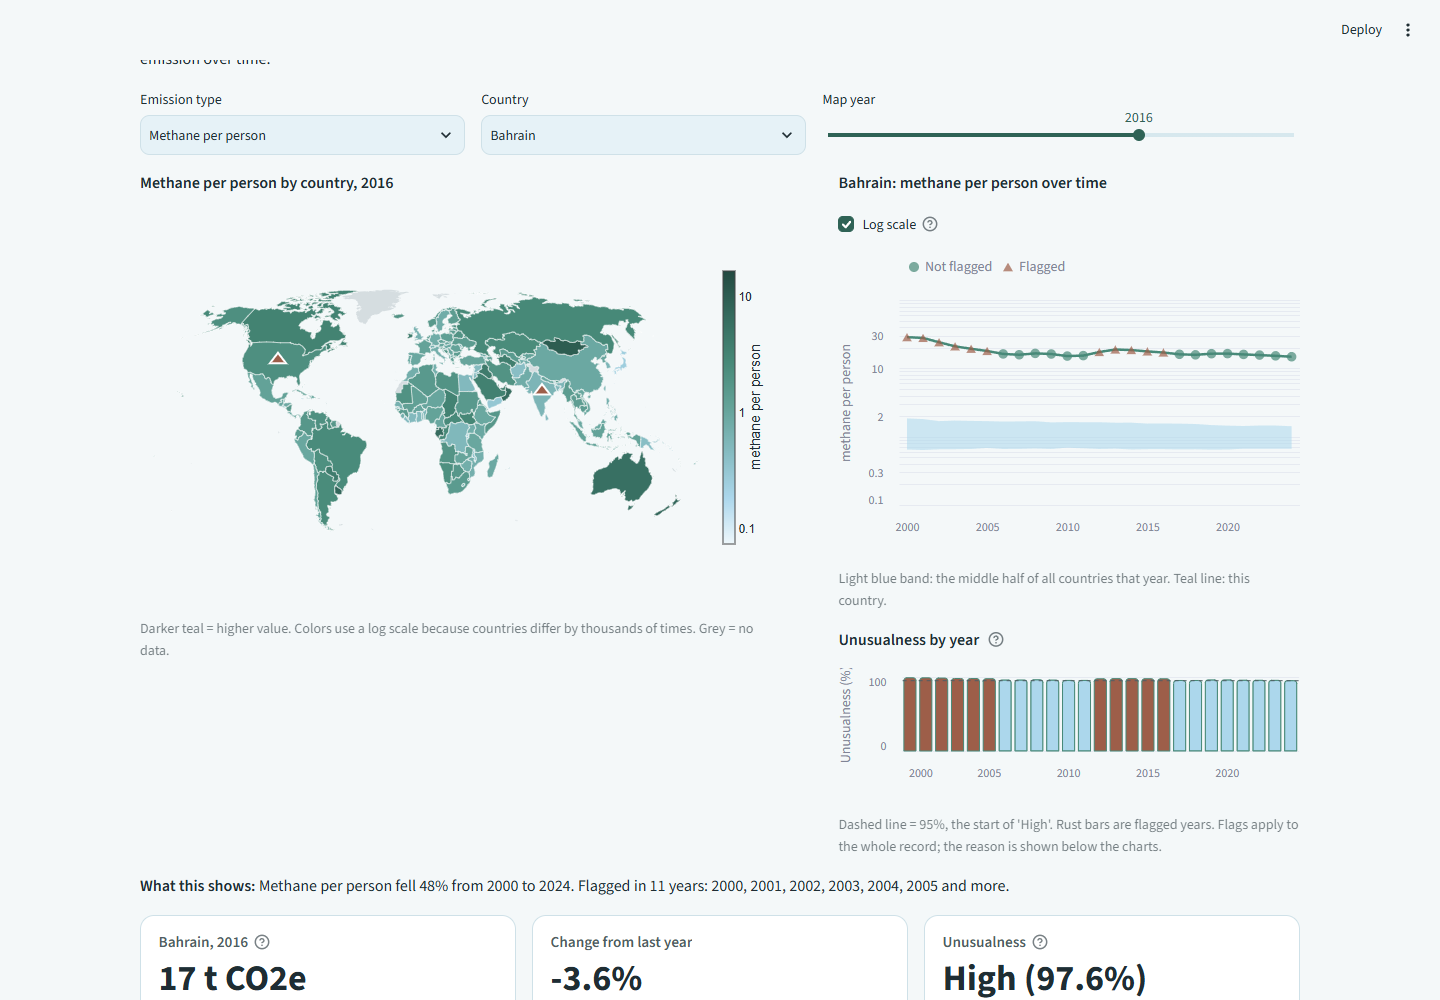
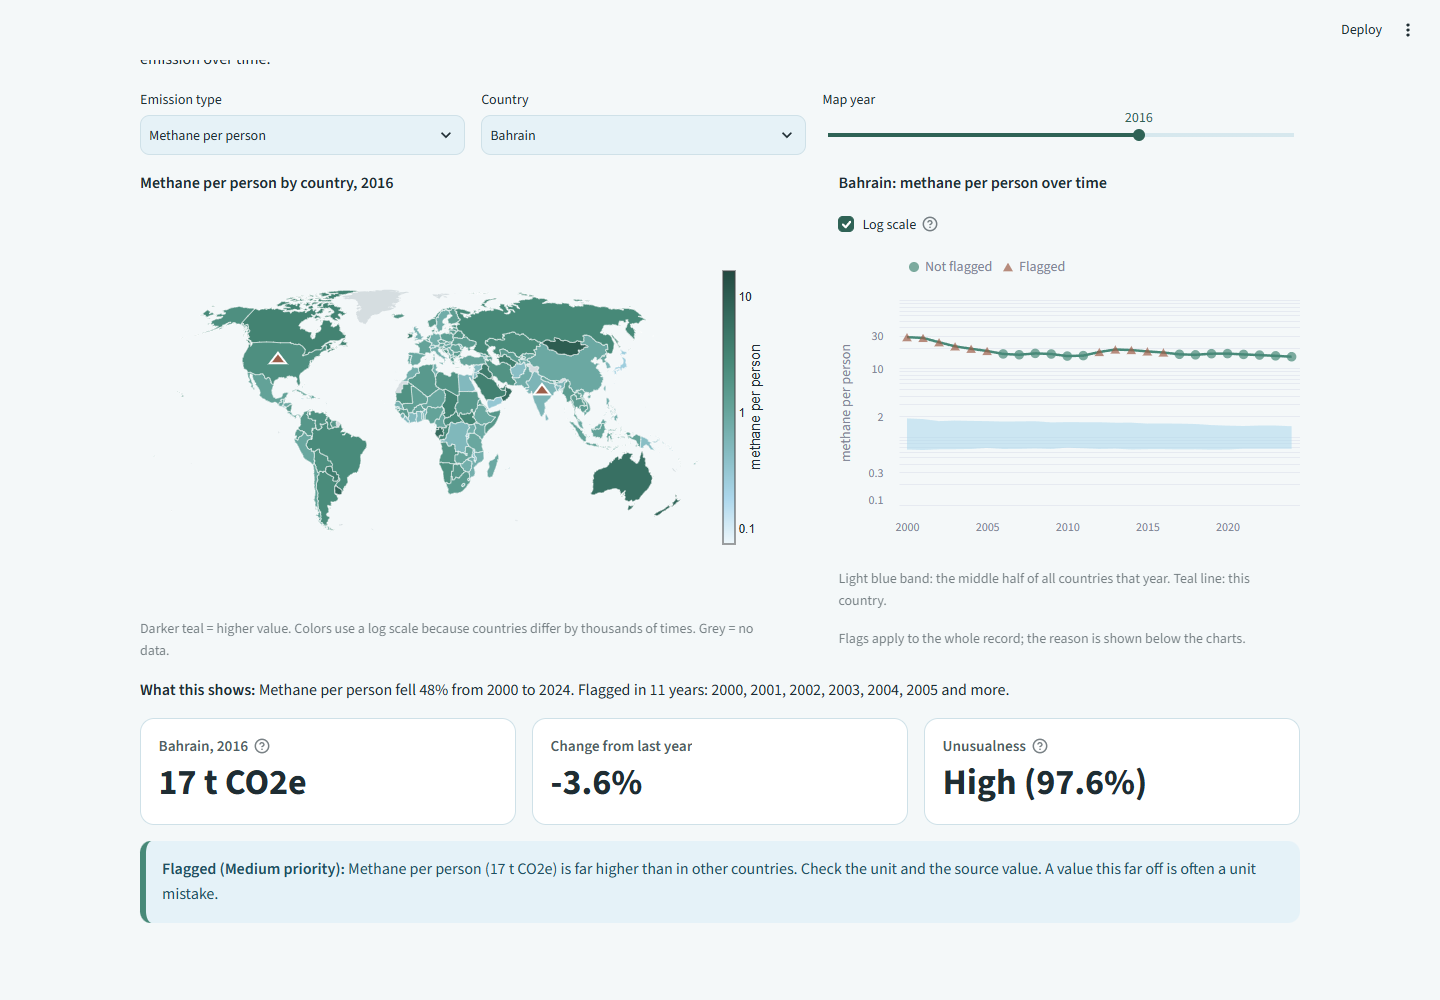
Remove the unusualness-by-year chart from the map tab
The per-record unusualness value stays on the record card.

Changed region(s): [[0.0938, 0.62, 0.9062, 1.0], [0.0938, 0.744, 0.2188, 0.806], [0.375, 0.744, 0.4688, 0.806]]

diff --git a/app.py b/app.py
@@ -556,21 +556,6 @@ def trend_chart(trend, measure, log_scale):
     return (band + line + points).properties(height=300)
 
 
-def unusualness_chart(trend):
-    data = trend.assign(status=np.where(trend['flagged'], 'Flagged', 'Not flagged'),
-                        label=trend['unusualness'].map(unusualness_label))
-    bars = alt.Chart(data).mark_bar(cornerRadiusEnd=3, strokeWidth=1).encode(
-        stroke=alt.condition("datum.status == 'Flagged'", alt.value(ANOMALY_COLOR), alt.value(TOKENS['teal'])),
-        x=alt.X('year:O', title=None, axis=alt.Axis(labelAngle=0, values=list(range(2000, 2026, 5)))),
-        y=alt.Y('unusualness:Q', title='Unusualness (%)', scale=alt.Scale(domain=[0, 100]),
-                axis=alt.Axis(values=[0, 50, 95, 100])),
-        color=alt.Color('status:N', scale=alt.Scale(domain=['Not flagged', 'Flagged'],
-                                                    range=[TOKENS['sky'], ANOMALY_COLOR]), legend=None),
-        tooltip=[alt.Tooltip('year:O', title='Year'), alt.Tooltip('label:N', title='Unusualness'), 'status'])
-    rule = alt.Chart(pd.DataFrame({'y': [95]})).mark_rule(color=INK_MUTED, strokeDash=[4, 4]).encode(y='y:Q')
-    return (bars + rule).properties(height=130)
-
-
 def render_map(scored, queue):
     measures = available_measures(scored)
     if not measures:
@@ -623,10 +608,7 @@ def render_map(scored, queue):
                                 help="Keeps the light blue typical range and this country readable on one chart.")
         show_chart(trend_chart(trend, measure, log_scale), width='stretch')
         st.caption("Light blue band: the middle half of all countries that year. Teal line: this country.")
-        st.markdown("**Unusualness by year**", help=UNUSUALNESS_HELP)
-        show_chart(unusualness_chart(trend), width='stretch')
-        st.caption("Dashed line = 95%, the start of 'High'. Rust bars are flagged years. "
-                   "Flags apply to the whole record; the reason is shown below the charts.")
+        st.caption("Flags apply to the whole record; the reason is shown below the charts.")
 
     st.markdown(f"**What this shows:** {trend_summary(trend, measure)}")
     record = trend[trend['year'] == year]

diff --git a/tests/test_ui.py b/tests/test_ui.py
@@ -94,3 +94,9 @@ def test_map_tab_renders_and_responds_to_choices(ui):
     country.set_value('India').run()
     assert not ui.exception
     assert any('India' in m.value for m in ui.markdown)
+
+
+def test_map_tab_has_no_unusualness_by_year_chart(ui):
+    text = " ".join(m.value for m in ui.markdown)
+    assert "Unusualness by year" not in text
+    assert any(m.label == "Unusualness" for m in ui.metric)    # the per-record value stays
